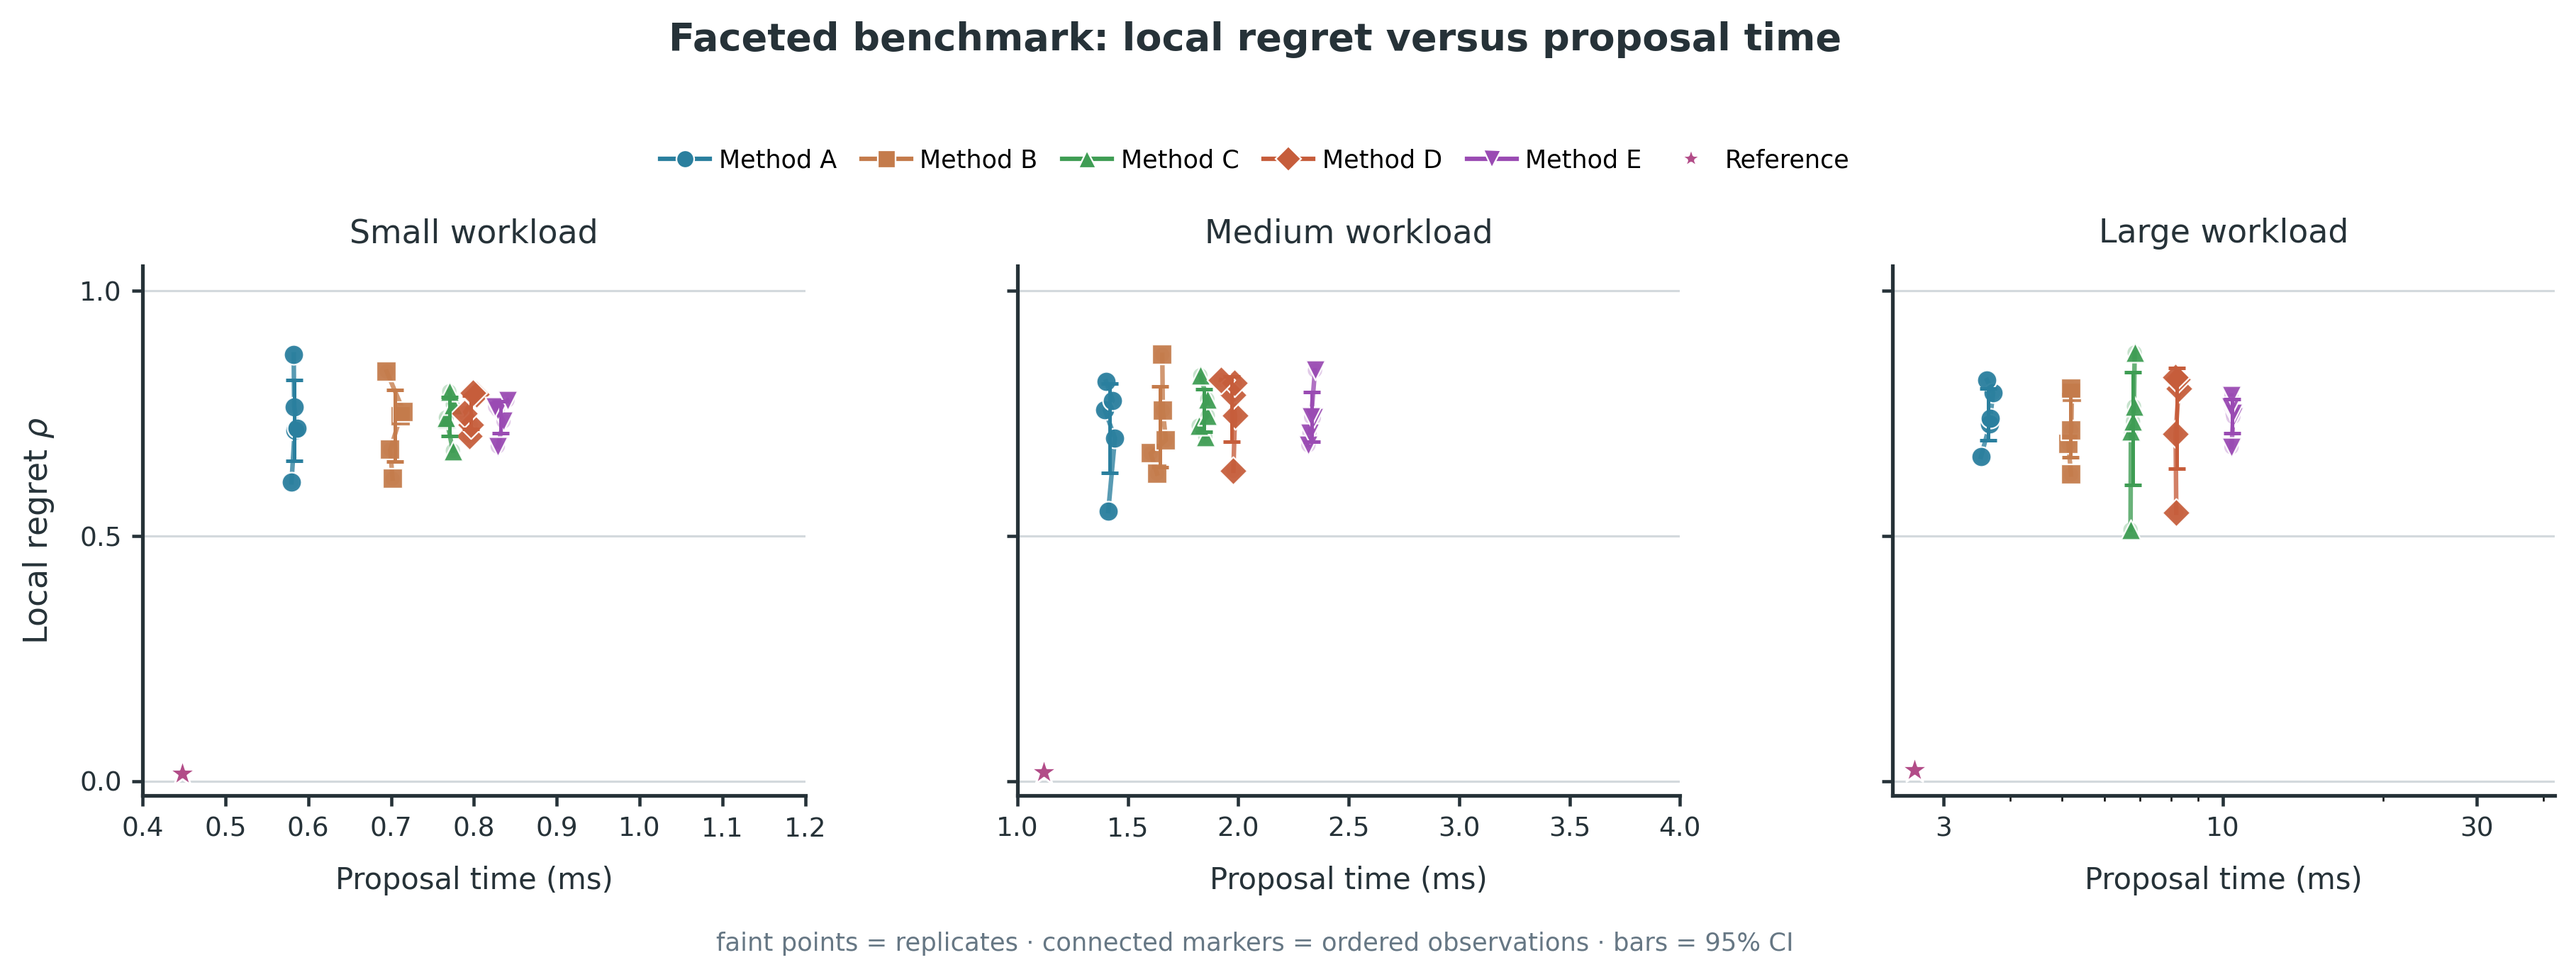
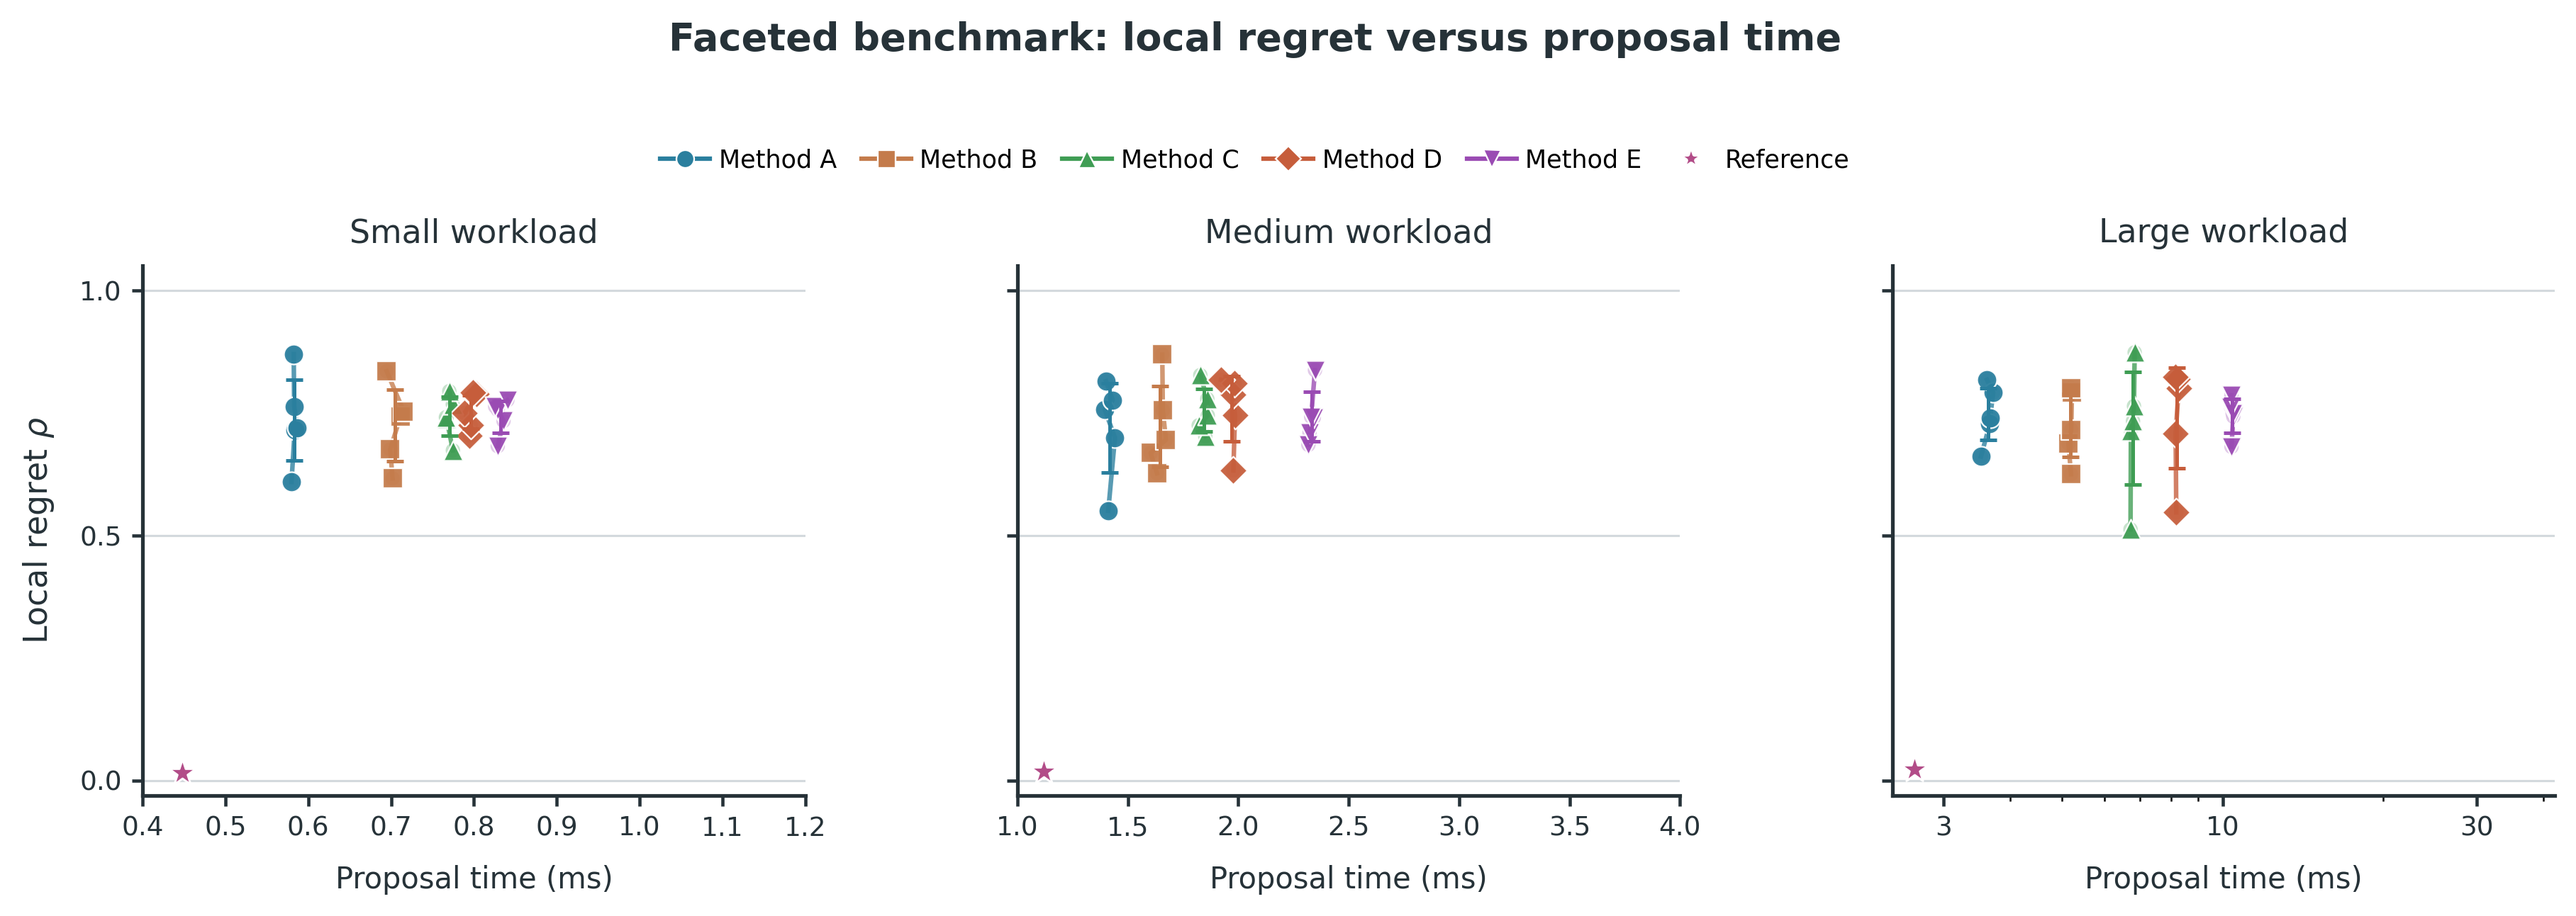
Remove default figure annotation

diff --git a/scripts/templates/make_faceted_errorbar_strip.py b/scripts/templates/make_faceted_errorbar_strip.py
@@ -154,7 +154,8 @@ def draw_method(ax: plt.Axes, observation: dict[str, object], panel_index: int) 
     )
 
 
-def make_figure(output_stem: Path) -> None:
+def make_figure(output_stem: Path, show_annotation: bool = False) -> None:
+    """Render the figure; keep the explanatory note off unless preparing slides."""
     configure_matplotlib()
     panels = synthetic_benchmark_data()
     fig, axes = plt.subplots(
@@ -206,14 +207,15 @@ def make_figure(output_stem: Path) -> None:
         color=INK,
         y=0.965,
     )
-    fig.text(
-        0.5,
-        0.035,
-        "faint points = replicates · connected markers = ordered observations · bars = 95% CI",
-        ha="center",
-        fontsize=8.5,
-        color=MUTED,
-    )
+    if show_annotation:
+        fig.text(
+            0.5,
+            0.035,
+            "faint points = replicates · connected markers = ordered observations · bars = 95% CI",
+            ha="center",
+            fontsize=8.5,
+            color=MUTED,
+        )
 
     handles = [
         plt.Line2D(
